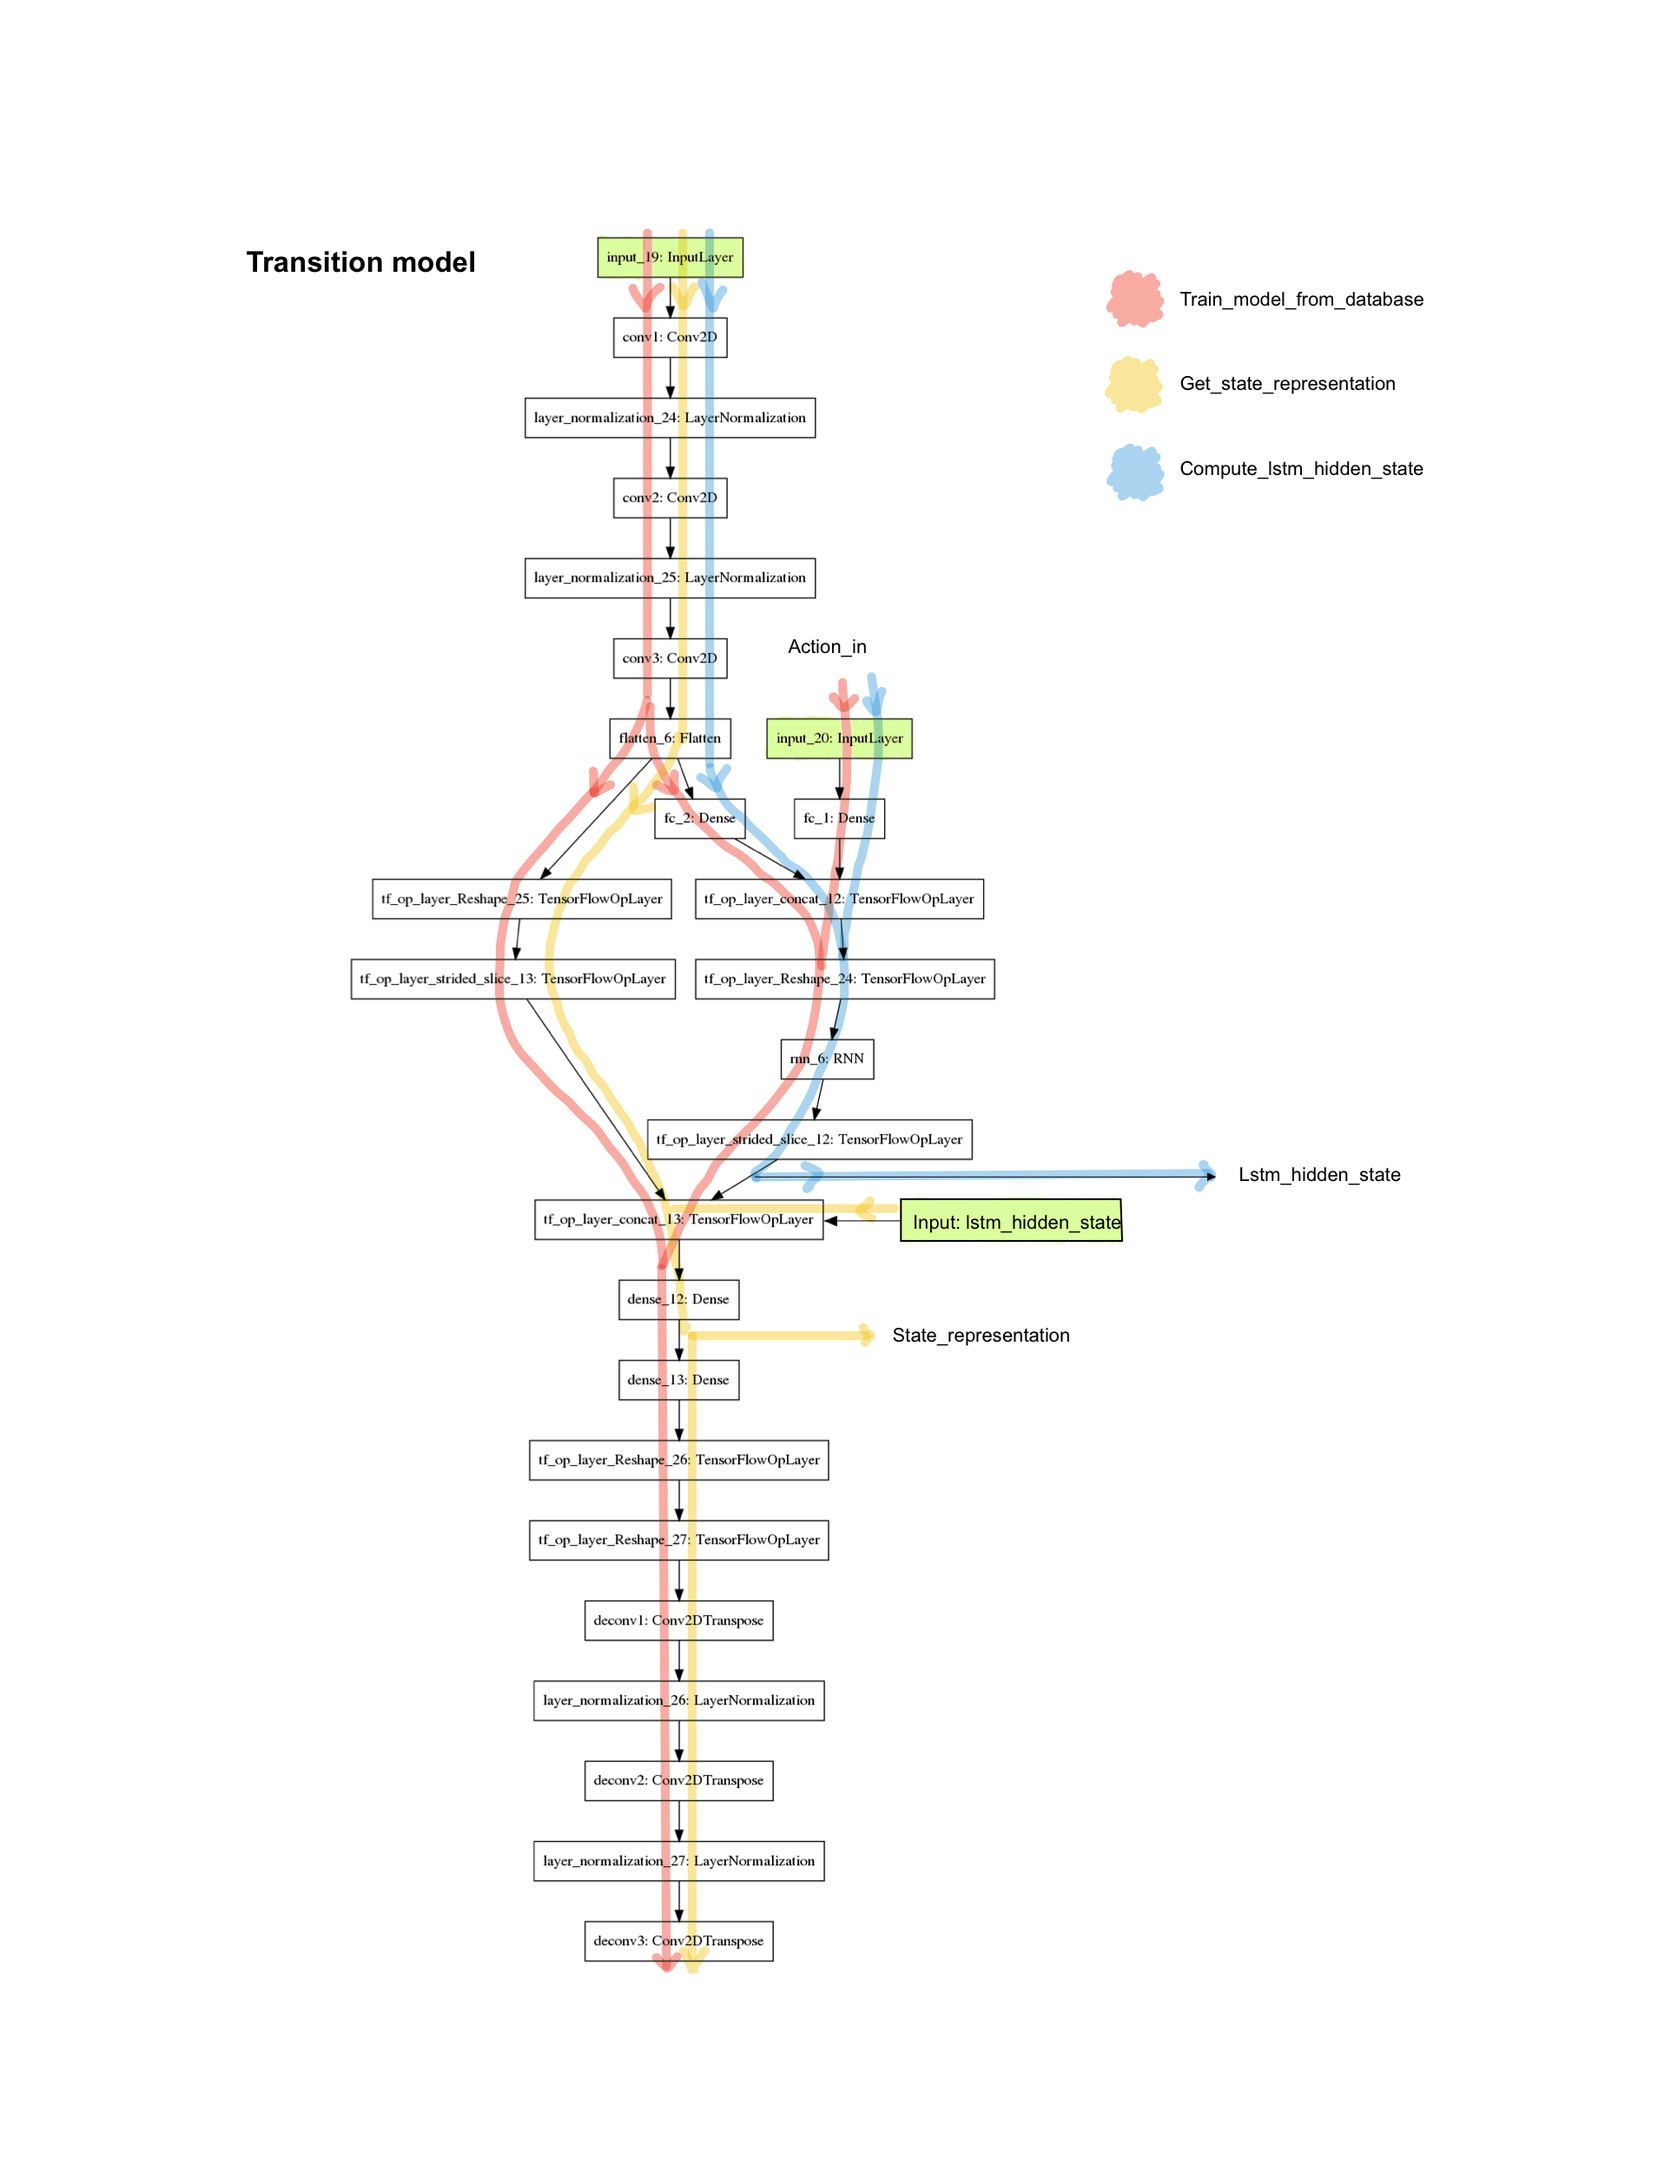
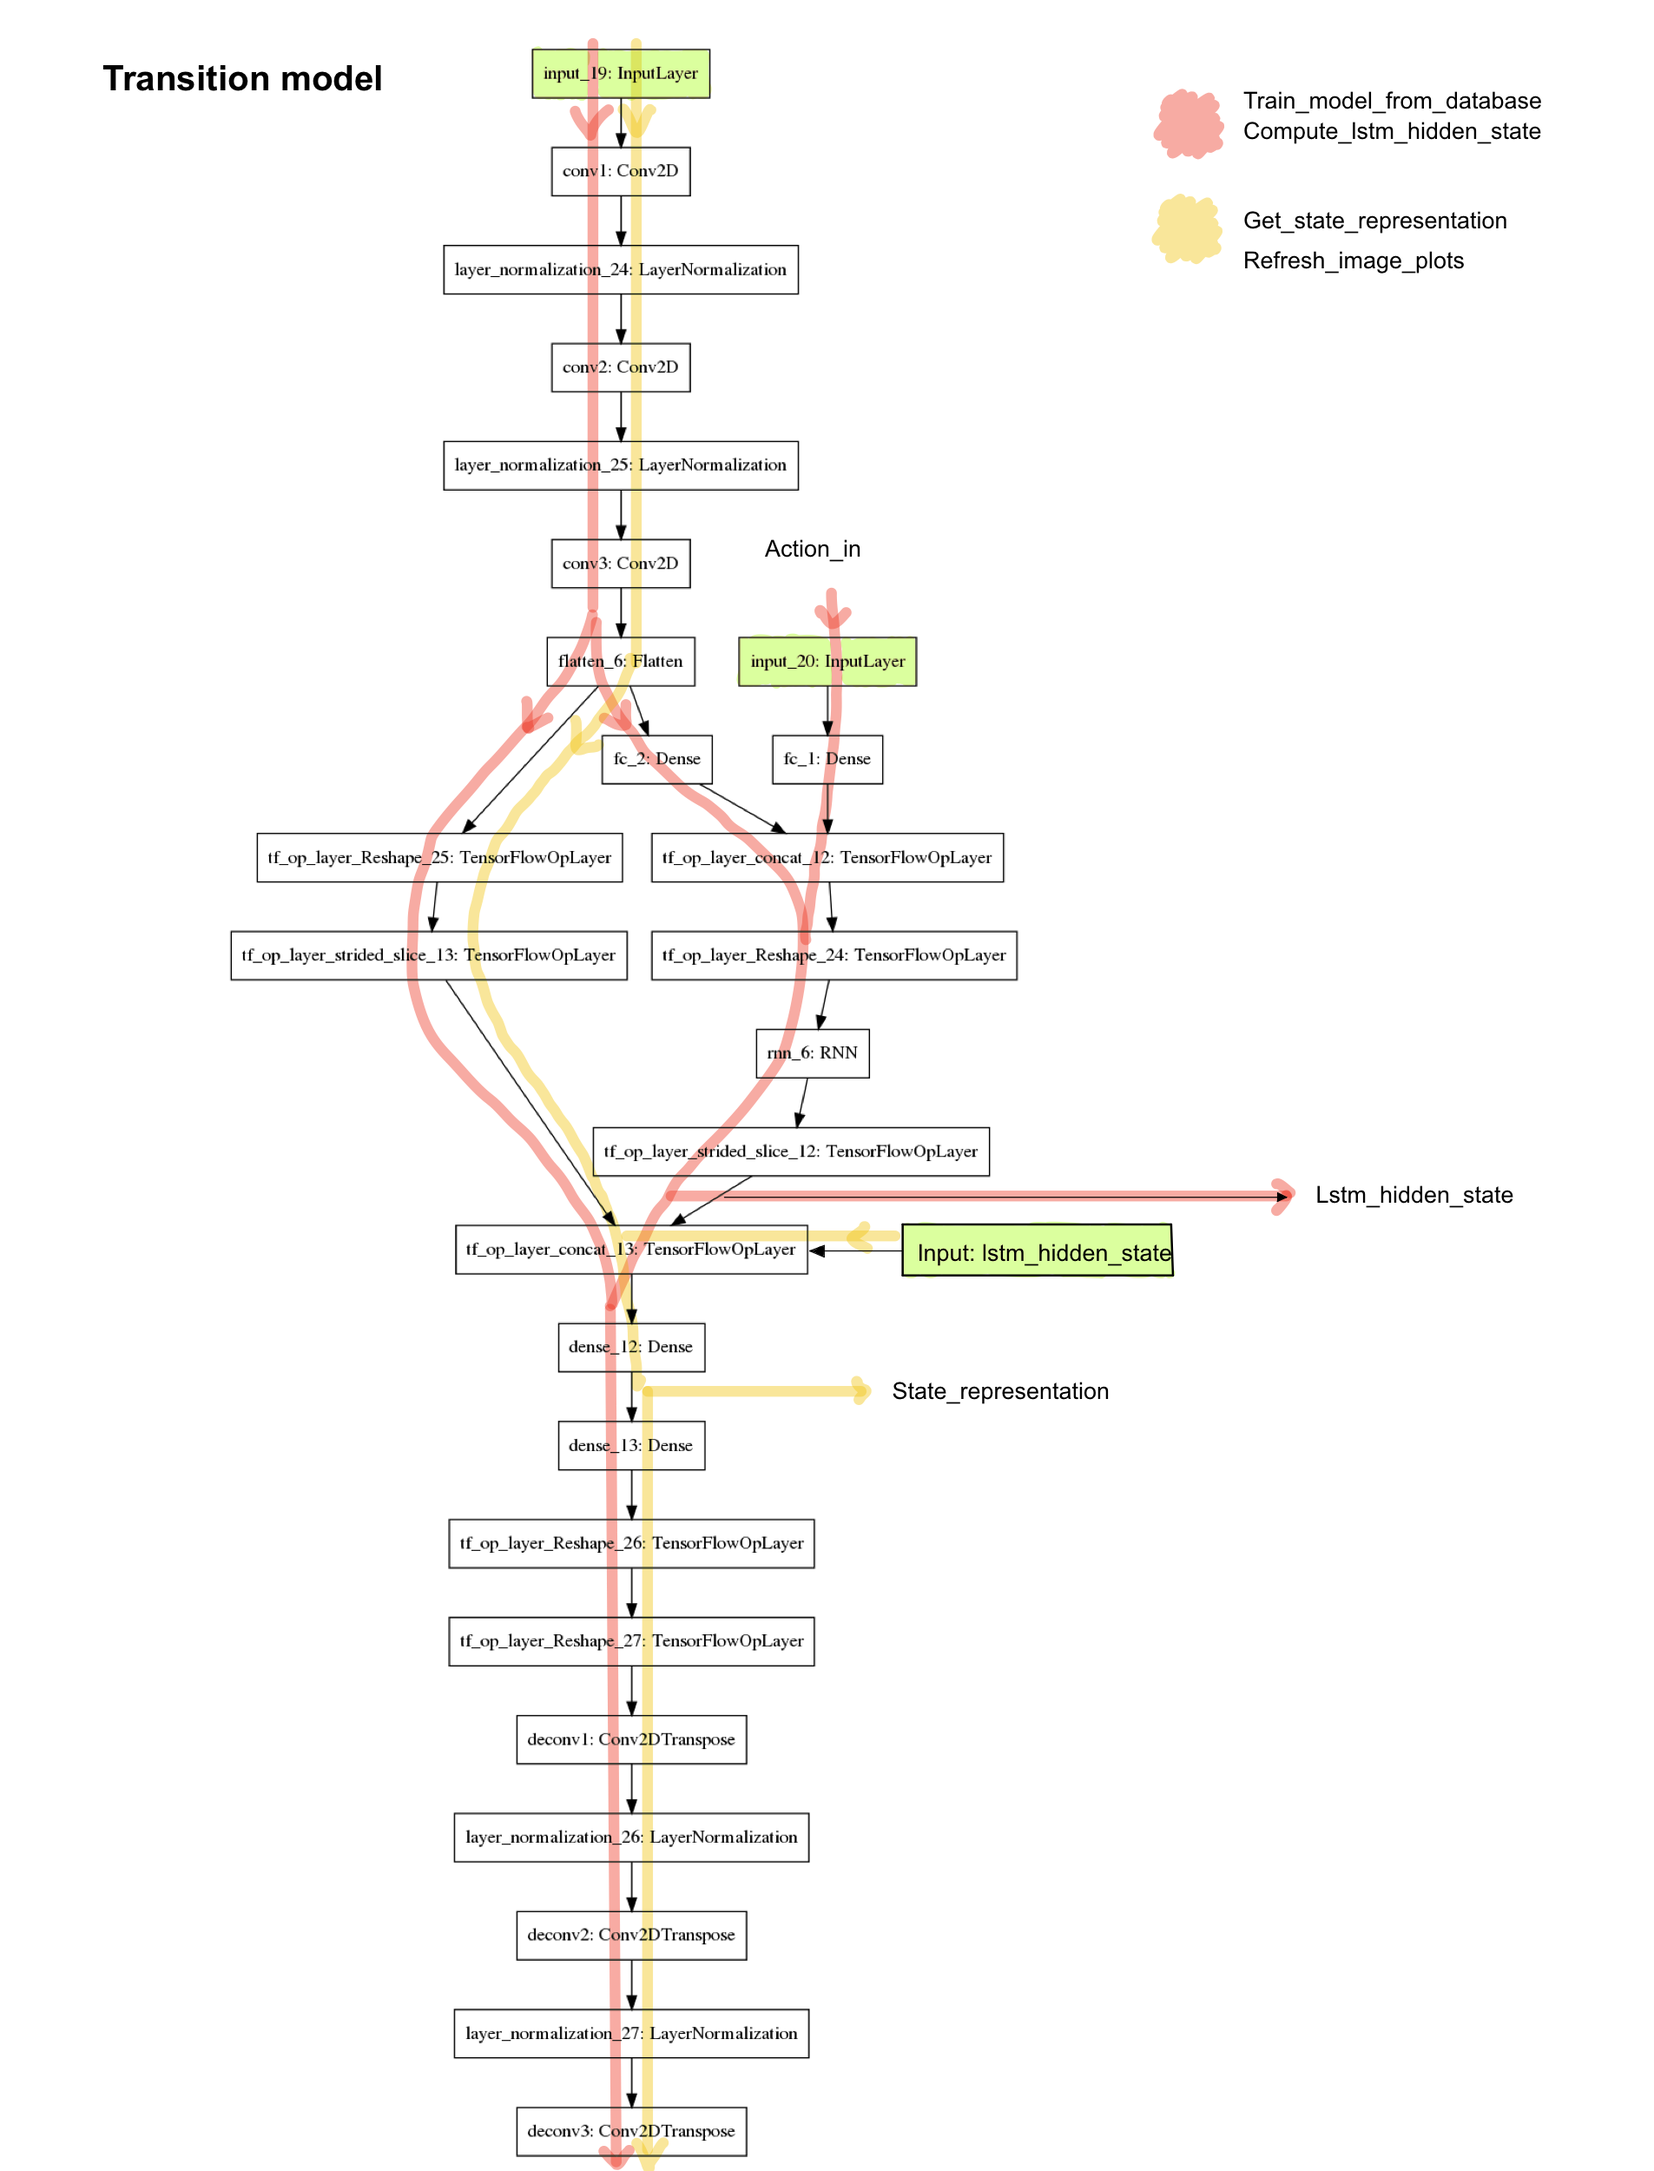
Update readme file and merge the model used to compute the lstm_hidden_state with the one use to train_from_database

diff --git a/src/transition_model2.py b/src/transition_model2.py
@@ -285,14 +285,17 @@ class TransitionModel:
             # LSTM_HIDDEN_STATE_BATCH model
             neural_network.model_parameters(batch_size = batch_size,
                                             sequence_length = self.training_sequence_length)
-            self.model_lstm_hidden_state_batch = neural_network.compute_lstm_hidden_state_model()
-            print('creo modelito1')
+            self.model_lstm_hidden_state_batch = neural_network.transition_model()
+
+
+            print('Minimum buffer_length reached, Model "model_lstm_hidden_state_batch" created, give more feedback')
 
             # STATE REPRESENTATION BATCH model
             neural_network.model_parameters(batch_size = batch_size,
                                             sequence_length = tf.constant(1))
             self.model_state_representation_batch = neural_network.predicting_model()
-            print('creo modelito2')
+
+            print('Minimum buffer_length reached, Model "model_state_representation_batch" created, give more feedback')
 
 
 
@@ -312,7 +315,7 @@ class TransitionModel:
         action_in = tf.convert_to_tensor(np.reshape(action_sequence_batch,[batch_size * self.training_sequence_length, self.dim_a]), dtype=tf.float32)
 
 
-        lstm_hidden_state_batch = self.model_lstm_hidden_state_batch([transition_model_input, action_in])
+        lstm_hidden_state_batch, _, _ = self.model_lstm_hidden_state_batch([transition_model_input, action_in])
 
 
         # FALTA COPIAR LOS WEIGHTS! como es el mismo modelo que el usado en el compute lstm hidden state, no ha hecho falta
@@ -356,7 +359,7 @@ class TransitionModel:
 
 
         if i_episode == 0 and t == 0:
-            self.model_compute_lstm_hidden_state = neural_network.compute_lstm_hidden_state_model()
+            self.model_compute_lstm_hidden_state = neural_network.transition_model()
             #print('CREO MODELO PREDICTINGG')
 
 
@@ -372,17 +375,27 @@ class TransitionModel:
             self.model_compute_lstm_hidden_state.get_layer('fc_2').set_weights(self.fc_2_weights)
             self.model_compute_lstm_hidden_state.get_layer('rnn_layer').set_weights(self.rnn_layer_weights)
 
+            #self.model_compute_lstm_hidden_state.get_layer('fc_3').set_weights(self.fc_3_weights)
+            #self.model_compute_lstm_hidden_state.get_layer('fc_4').set_weights(self.fc_4_weights)
 
 
 
-        self.lstm_hidden_state = self.model_compute_lstm_hidden_state(
+            #self.transition_model_predicting.get_layer('deconv1').set_weights(self.deconv1_weights)
+            #self.transition_model_predicting.get_layer('norm_deconv1').set_weights(self.norm_deconv1_weights)
+            #self.transition_model_predicting.get_layer('deconv2').set_weights(self.deconv2_weights)
+            #self.transition_model_predicting.get_layer('norm_deconv2').set_weights(self.norm_deconv2_weights)
+            #self.transition_model_predicting.get_layer('deconv3').set_weights(self.deconv3_weights)
+
+
+
+        self.lstm_hidden_state,_ ,_ = self.model_compute_lstm_hidden_state(
             [self.network_input[-1], self.action_tensor])
 
 
         self.last_actions.add(action)
 
     def last_step(self, action_label):
-        print('FUNCTION: def last_step')
+        #print('FUNCTION: def last_step')
         if self.last_states.initialized() and self.last_actions.initialized():
             return [self.network_input[:-1],
                     self.last_actions.buffer[:-1],
@@ -392,7 +405,7 @@ class TransitionModel:
             return None
 
     def new_episode(self):
-        print('FUNCTION: def new_episode')
+        #print('FUNCTION: def new_episode')
         self.lstm_hidden_state = np.zeros([1, 2 * self.lstm_h_size])
         self.last_states = Buffer(min_size=self.training_sequence_length + 1,
                                   max_size=self.training_sequence_length + 1)

diff --git a/src/neural_network2.py b/src/neural_network2.py
@@ -101,52 +101,6 @@ class NeuralNetwork:
 
 
 
-    def compute_lstm_hidden_state_model(self):
-
-
-        transition_model_input = tf.keras.layers.Input(shape=(self.image_width, self.image_width, 1), batch_size=None)
-        action_in = tf.keras.layers.Input(shape=(self.dim_a), batch_size=None)
-
-
-
-        # Convolutional encoder
-        x = tf.keras.layers.Conv2D(16, [3, 3], strides=2, padding='same', name='conv1')(transition_model_input)
-        x = tf.keras.layers.LayerNormalization(name='norm_conv1')(x)
-        x = tf.keras.layers.Conv2D(8, [3, 3], strides=2, padding='same', name='conv2')(x)
-        x = tf.keras.layers.LayerNormalization(name='norm_conv2')(x)
-        conv3 = tf.keras.layers.Conv2D(4, [3, 3], strides=2, padding='same', activation='sigmoid', name='conv3')(x)
-
-
-        latent_space = tf.keras.layers.Flatten()(conv3)
-        latent_space_shape = latent_space.get_shape()
-
-        # Combine latent space information with actions from the policy
-        fc_2 = tf.keras.layers.Dense(latent_space_shape[1], activation="tanh", name='fc_2')(latent_space)
-        fc_1 = tf.keras.layers.Dense(latent_space_shape[1], activation="tanh", name='fc_1')(action_in)
-
-        concat_1 = tf.concat([fc_1, fc_2], axis=1)
-        concat_1_shape = concat_1.get_shape()
-
-        # Transform data into 3-D sequential structures: [batch size, sequence length, data size]
-        sequential_concat_1 = tf.reshape(concat_1, shape=[self.batch_size, self.sequence_length, concat_1_shape[-1]])
-
-        # LSTM
-        my_LSTMCell = tf.keras.layers.LSTMCell(self.lstm_hidden_state_size)
-        my_RNN_layer = tf.keras.layers.RNN(my_LSTMCell, return_sequences=True,
-                                           return_state=True, name = 'rnn_layer')
-
-        whole_seq_output, final_memory_state, final_carry_state = my_RNN_layer(inputs=sequential_concat_1)
-
-        lstm_hidden_state_out = final_memory_state
-        lstm_hidden_state = lstm_hidden_state_out
-
-        # Model creation
-        model_lstm_hidden_state = tf.keras.Model(inputs=[transition_model_input, action_in],
-                                                       outputs=[lstm_hidden_state])
-
-        return model_lstm_hidden_state
-
-
 
     def predicting_model(self):
 

diff --git a/src/agents/DCOACH2.py b/src/agents/DCOACH2.py
@@ -110,8 +110,8 @@ class DCOACH:
 
             # Train sampling from buffer
             if self.buffer.initialized():
-                print('buffer.initialized!!!!!!!!!!!')
-                print(self.buffer.length())
+                print("buffer.length():", self.buffer.length())
+
                 batch = self.buffer.sample(batch_size=self.buffer_sampling_size)  # TODO: probably this config thing should not be here
                 self._batch_update(neural_network, transition_model, batch, i_episode, t)
 

diff --git a/README.md b/README.md
@@ -1,3 +1,49 @@
 # Interactive-Learning-of-Temporal-Features-for-Control-TF2
 
+In TensorFlow 2 you can create a machine learning model following one of these 3 methods:
+1. Keras **Sequential API**: appropriate for a plain stack of layers where each layer has exactly one input tensor and one output tensor.
+2. Keras **Functional API**: More flexible than the Sequential API. It can handle shared layers, and multiple inputs or outputs.
+3. **Model Subclassing**: The most flexible method. Allows creating your own model class by inheriting from the keras Model class. With this method you can use keras layers or custom layers.
+
+In this code, both the `transition_model` and the `policy_model` have been created with the Keras Functional API available in TensorFlow2. ([Functional API in TensorFlow2 link](https://www.tensorflow.org/guide/keras/functional))
+
 ![transition model](transition_model.png)
+The previous diagram is obtained with the command `tf.keras.utils.plot_model(self.transition_model_training)`
+
+
+
+This Functional API makes the creation of a model easier but I also encounter some problems 
+1. Variable batch size
+2. Different input layer to the model
+
+
+#### Issue 1: Variable batch size
+A first issue is having a different batch size for training and predicting. I took a look to the post *How to use Different Batch Sizes when Training and Predicting with LSTMs* ([Post link](https://machinelearningmastery.com/use-different-batch-sizes-training-predicting-python-keras/)), where it suggests: 
+
+*"A better solution is to use different batch sizes for training and predicting. The way to do this is to copy the weights from the fit network and to create a new network with the pre-trained weights. We can do this easily enough using the `get_weights()` and `set_weights()` functions"*
+
+Following this advice, I create a new instance of the model defined in `neural_network2.py` when it requires a different batch size or sequence length. Then, using `get_weights()`, I get the weights of the main model (`self.transition_model_training`) obtained at the end of the training of each episode, and set those weights  to the other instances of the model.
+
+
+Main model:
+- `get_weights()` from `self.transition_model_training = neural_network.transition_model()`
+
+Other instances of the same model:
+
+- `set_weights()` to `self.model_compute_lstm_hidden_state = neural_network.transition_model()`
+
+- `set_weights()` to `self.model_lstm_hidden_state_batch = neural_network.transition_model()`
+
+
+
+#### Issue 2: Different input layer to the model
+
+At the beginning I tried to use a unique model for all the use cases of the code. For example, I tried to create a model where I could use `tf.cond` to choose between `action_in` or the already computed `lstm_hidden_state`; I believe this kind of control flow doesn't work when using a Functional API model because once the model is created, the layers need to be the same and have the same dimensions.
+
+As it can be seen in the diagram, the functions `get_state_representation` and `refresh_image_plots` use the already computed lstm_hidden_state as input whereas `train_model_from_database` and `compute_lstm_hidden_state` use the input `action_in`. For this reason, in the file `neural_network`, I created an additional simplified version of the `transition_model` called `predicting_model`. This `predicting_model` doesn't include the layers `fc_1`, `fc_2` and `rnn_layer` because it doesn't require an `action_in`. The rest of the layers share the same names as in `transition_model` and I can set the weights as explained in the previous point.
+
+
+---
+
+
+Finally, all the Functional API models are instantiated just once, otherwise the weights would we reseted every time I create the model object; I have used some if statements in combination with flags to achieve this.
